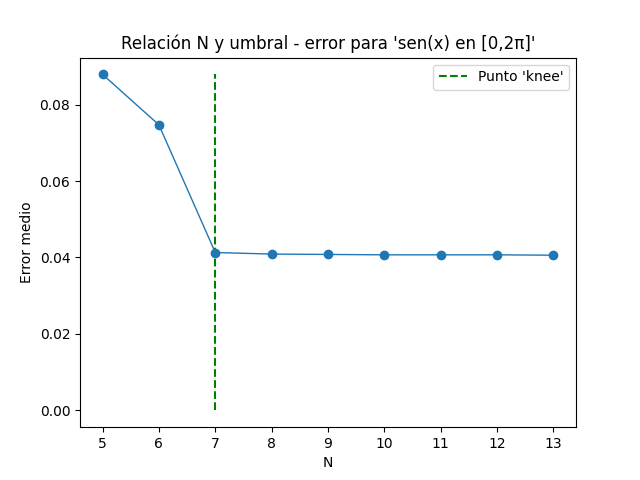
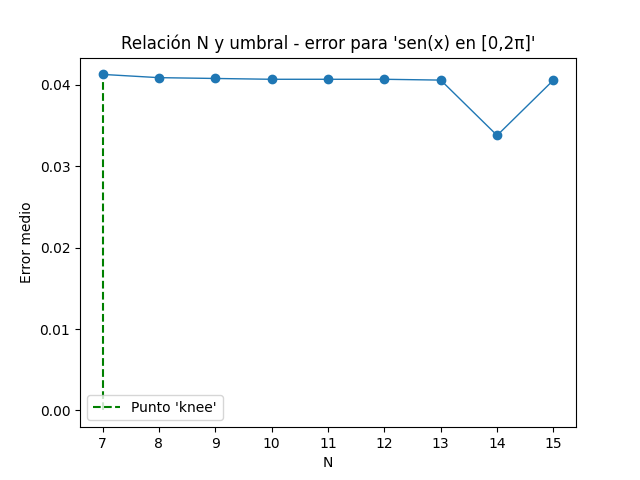
cambios profundos, este commit es de seguridad

diff --git a/signal_code/tfg_signal.py b/signal_code/tfg_signal.py
@@ -293,7 +293,7 @@ def experiment(signal_f, dom, N, fun, param, signal_title="", print_mat=False, s
         plt.title(signal_title)
         plt.gcf().canvas.set_window_title('TFG')
         if(save_sig):    # Guardar
-            plt.savefig("results/graf_" + str(N) + "_" + str(int(10*param)) + "_" + signal_title + ".png")
+            plt.savefig("results/graf_" + str(N) + "_" + str(int(1000*param)) + "_" + signal_title + ".png")
         if(show_sig):    # Visualizar
             plt.show()
 
@@ -495,23 +495,14 @@ def optimization_N(signal_f, dom, thr, signal_title, show_n_save = True):
 
     Ns = []; errs = []; pers = [];
 
-    for N in range(5,15):
+    for N in range(6,16):
         puntos = np.linspace(dom[0], dom[1], num=2**N)
         signal = np.empty((2**N), dtype=np.float64)
         for i in range(2**N):
             signal[i] = signal_f(puntos[i])
         err, per = experiment_opt(signal, 2**N, thr)
         Ns.append(N); errs.append(err); pers.append(per);
-    """
 
-    for N in range(20,100,10):
-        puntos = np.linspace(dom[0], dom[1], num=2**N)
-        signal = np.empty((N), dtype=np.float64)
-        for i in range(N):
-            signal[i] = signal_f(puntos[i])
-        err, per = experiment_opt(signal, N, thr)
-        Ns.append(N); errs.append(err); pers.append(per);
-    """
     if(signal_title!=""): # Imprimo las listas
         print("Ns:")
         print(Ns)
@@ -539,7 +530,7 @@ def optimization_N(signal_f, dom, thr, signal_title, show_n_save = True):
         plt.legend()
         plt.title("Relación N - error para '{}'".format(signal_title))
         plt.gcf().canvas.set_window_title('TFG')
-        plt.savefig("results/opt_N_" + str(N) + "_" + str(int(10*thr)) + "_" + signal_title + ".png")
+        plt.savefig("results/opt_N_" + str(int(100*thr)) + "_" + signal_title + ".png")
         plt.show()
 
     return kneedle.knee, opt_err
@@ -560,7 +551,7 @@ def optimization_thr_N(signal_f, dom, signal_title):
     print("#####################################################\n  ")
     Ns = []; thrs = []; errs = []; pers = [];
 
-    for N in range(5,14):
+    for N in range(7,16):
         thr, per, err = optimization_thr(signal_f, dom, 2**N, "", show_n_save=False)
         Ns.append(N); thrs.append(thr); pers.append(per); errs.append(err);
 
@@ -640,7 +631,7 @@ def test(func):
     input("--- Pulsa 'Enter' para continuar ---\n")
 
 def test2(li):
-    #li = np.array([12, 12, 12, 12, 8, 8, 10, 10])
+    li = np.array([12, 12, 12, 12, 8, 8, 10, 10])
     ha = haar_transform(li,[])
     re = reverse_haar(ha[:1],ha[1:],0)
     print(ha)
@@ -655,6 +646,7 @@ def test2(li):
 """ Programa principal. """
 def main():
     #test(xsen_plus_xcos)
+    test2()
     N = 6
     list = [['f', 'Dom(f)', 'N', 'ε', 'Descartes (%)', 'Error medio', 'Factor de compresión'],
          ['sen(x)', '[0,2π]', 512, 0.1],
@@ -663,7 +655,7 @@ def main():
          ['xsen(x)+xcos(x)', '[0,2π]', 512, 0.1],
          ['xsen(x)+xcos(x)', '[0,2π]', 512, 0.5],
          ['xsen(x)+xcos(x)', '[0,2π]', 512, 2]]
-
+    """
     per = np.zeros(N); err = np.zeros(N); fac = np.zeros(N)
 
     _, per[0], err[0], fac[0] = experiment(math.sin, [0, 2*np.pi], 512, thresholding, 0.005, "sen(x) en [0,2π] (N=512, ε=0.005)")
@@ -680,13 +672,13 @@ def main():
 
     print()
     print(tabulate(list, headers='firstrow', tablefmt='fancy_grid'))
-
-    optimization_thr(math.sin, [0, 2*np.pi], 512, "sen(x) en [0,2π]")
-    optimization_thr(xsen_plus_xcos, [0, 2*np.pi], 512, "xsen(x)+xcos(x) en [0,2π]")
-    optimization_N(math.sin, [0, 2*np.pi], 0.05, "sen(x) en [0,2π]")
-    optimization_N(xsen_plus_xcos, [0, 2*np.pi], 0.15, "xsen(x)+xcos(x) en [0,2π]")
-    optimization_thr_N(math.sin, [0, 2*np.pi], "sen(x) en [0,2π]")
-    optimization_thr_N(xsen_plus_xcos, [0, 2*np.pi], "xsen(x)+xcos(x) en [0,2π]")
+    """
+    #optimization_thr(math.sin, [0, 2*np.pi], 512, "sen(x)")
+    #optimization_thr(xsen_plus_xcos, [0, 2*np.pi], 512, "xsen(x)+xcos(x)")
+    #optimization_N(math.sin, [0, 2*np.pi], 0.05, "sen(x) en [0,2π]")
+    #optimization_N(xsen_plus_xcos, [0, 2*np.pi], 0.15, "xsen(x)+xcos(x)")
+    optimization_thr_N(math.sin, [0, 2*np.pi], "sen(x)")
+    optimization_thr_N(xsen_plus_xcos, [0, 2*np.pi], "xsen(x)+xcos(x)")
 
 
 if __name__ == "__main__":
